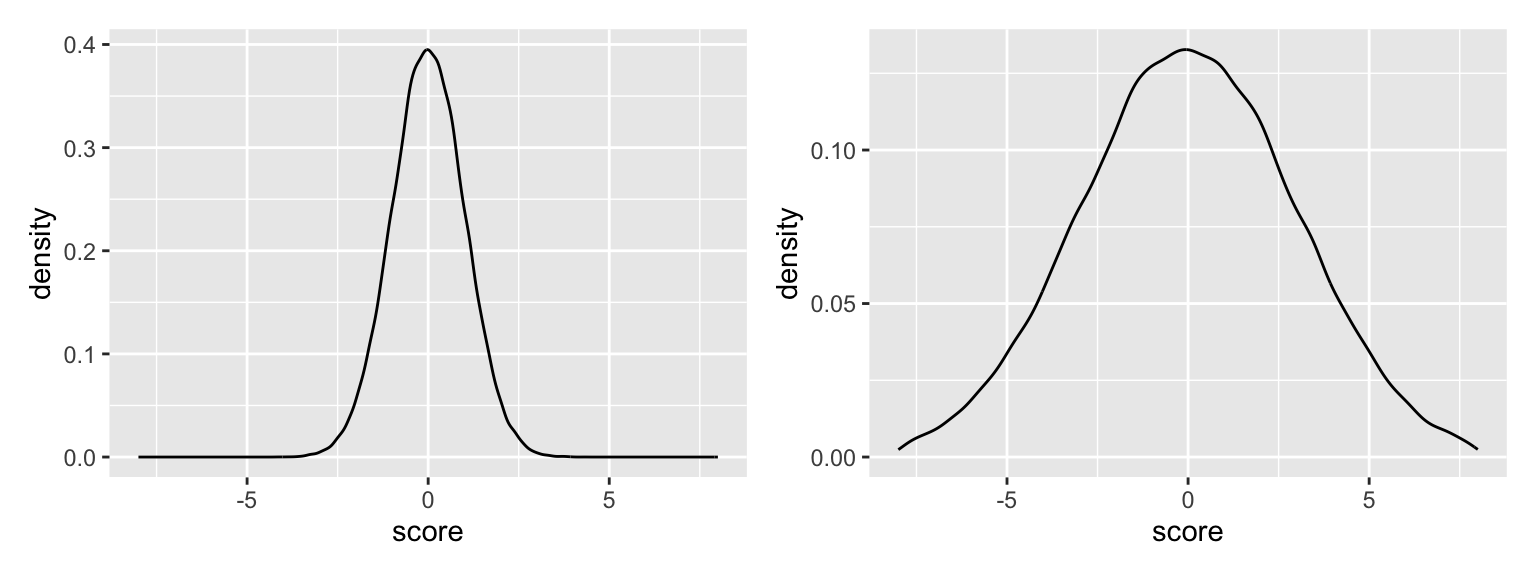
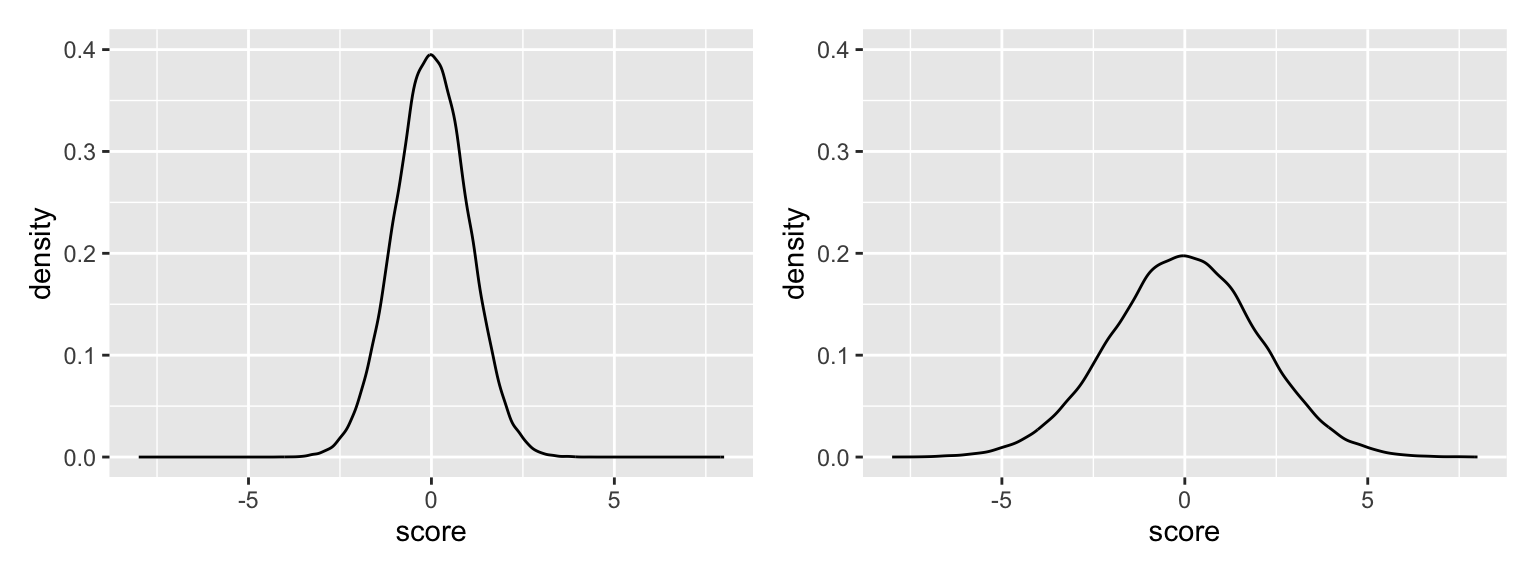
yes5

diff --git a/dataps/dataviz.html b/dataps/dataviz.html
@@ -395,10 +395,10 @@ div.csl-indent {
 <span id="cb6-4"><a href="#cb6-4" aria-hidden="true" tabindex="-1"></a>  <span class="fu">ggplot</span>(<span class="fu">aes</span>(<span class="at">x=</span>score)) <span class="sc">+</span> </span>
 <span id="cb6-5"><a href="#cb6-5" aria-hidden="true" tabindex="-1"></a>  <span class="fu">geom_density</span>(<span class="at">linewidth=</span><span class="dv">1</span>) <span class="sc">+</span> </span>
 <span id="cb6-6"><a href="#cb6-6" aria-hidden="true" tabindex="-1"></a>  <span class="fu">labs</span>(<span class="at">title=</span><span class="st">"linewidth=1"</span>, </span>
-<span id="cb6-7"><a href="#cb6-7" aria-hidden="true" tabindex="-1"></a>       <span class="at">x=</span><span class="st">"Score (Random Variable)"</span>, <span class="at">y=</span><span class="st">"Density"</span>) <span class="sc">+</span></span>
+<span id="cb6-7"><a href="#cb6-7" aria-hidden="true" tabindex="-1"></a>       <span class="at">x=</span><span class="st">"Score (Random Variable)</span><span class="sc">\n</span><span class="st"> "</span>, <span class="at">y=</span><span class="st">"Density"</span>) <span class="sc">+</span></span>
 <span id="cb6-8"><a href="#cb6-8" aria-hidden="true" tabindex="-1"></a>  <span class="fu">scale_x_continuous</span>(<span class="at">limits =</span> <span class="fu">c</span>(<span class="sc">-</span><span class="dv">4</span>, <span class="dv">4</span>), <span class="at">breaks =</span> <span class="fu">seq</span>(<span class="sc">-</span><span class="dv">4</span>, <span class="dv">4</span>, <span class="dv">1</span>)) <span class="sc">+</span></span>
 <span id="cb6-9"><a href="#cb6-9" aria-hidden="true" tabindex="-1"></a>  <span class="fu">scale_y_continuous</span>(<span class="at">limits =</span> <span class="fu">c</span>(<span class="dv">0</span>, .<span class="dv">4</span>), <span class="at">breaks =</span> <span class="fu">seq</span>(<span class="dv">0</span>, .<span class="dv">4</span>, .<span class="dv">1</span>)) <span class="sc">+</span></span>
-<span id="cb6-10"><a href="#cb6-10" aria-hidden="true" tabindex="-1"></a>  <span class="fu">theme</span>(<span class="at">plot.title =</span> <span class="fu">element_text</span>(<span class="at">hjust =</span> <span class="fl">0.5</span>, <span class="at">size=</span><span class="dv">12</span>), </span>
+<span id="cb6-10"><a href="#cb6-10" aria-hidden="true" tabindex="-1"></a>  <span class="fu">theme</span>(<span class="at">plot.title =</span> <span class="fu">element_text</span>(<span class="at">hjust =</span> <span class="fl">0.5</span>, <span class="at">size=</span><span class="dv">12</span>, <span class="at">face =</span> <span class="st">"bold"</span>), </span>
 <span id="cb6-11"><a href="#cb6-11" aria-hidden="true" tabindex="-1"></a>        <span class="at">axis.title =</span> <span class="fu">element_text</span>(<span class="at">size =</span> <span class="dv">12</span>), </span>
 <span id="cb6-12"><a href="#cb6-12" aria-hidden="true" tabindex="-1"></a>        <span class="at">axis.text  =</span> <span class="fu">element_text</span>(<span class="at">size =</span> <span class="dv">10</span>))</span>
 <span id="cb6-13"><a href="#cb6-13" aria-hidden="true" tabindex="-1"></a></span>
@@ -409,9 +409,9 @@ div.csl-indent {
 <span id="cb6-18"><a href="#cb6-18" aria-hidden="true" tabindex="-1"></a>       <span class="at">x=</span><span class="st">"Score (Random Variable)"</span>, <span class="at">y=</span><span class="st">"Density"</span>) <span class="sc">+</span></span>
 <span id="cb6-19"><a href="#cb6-19" aria-hidden="true" tabindex="-1"></a>  <span class="fu">scale_x_continuous</span>(<span class="at">limits =</span> <span class="fu">c</span>(<span class="sc">-</span><span class="dv">4</span>, <span class="dv">4</span>), <span class="at">breaks =</span> <span class="fu">seq</span>(<span class="sc">-</span><span class="dv">4</span>, <span class="dv">4</span>, <span class="dv">1</span>)) <span class="sc">+</span></span>
 <span id="cb6-20"><a href="#cb6-20" aria-hidden="true" tabindex="-1"></a>  <span class="fu">scale_y_continuous</span>(<span class="at">limits =</span> <span class="fu">c</span>(<span class="dv">0</span>, .<span class="dv">4</span>), <span class="at">breaks =</span> <span class="fu">seq</span>(<span class="dv">0</span>, .<span class="dv">4</span>, .<span class="dv">1</span>)) <span class="sc">+</span></span>
-<span id="cb6-21"><a href="#cb6-21" aria-hidden="true" tabindex="-1"></a>  <span class="fu">theme</span>(<span class="at">plot.title =</span> <span class="fu">element_text</span>(<span class="at">hjust =</span> <span class="fl">0.5</span>, <span class="at">size=</span><span class="dv">12</span>), <span class="co"># Graph title</span></span>
-<span id="cb6-22"><a href="#cb6-22" aria-hidden="true" tabindex="-1"></a>        <span class="at">axis.title =</span> <span class="fu">element_text</span>(<span class="at">size =</span> <span class="dv">12</span>),  <span class="co"># Axis titles</span></span>
-<span id="cb6-23"><a href="#cb6-23" aria-hidden="true" tabindex="-1"></a>        <span class="at">axis.text  =</span> <span class="fu">element_text</span>(<span class="at">size =</span> <span class="dv">10</span>))  <span class="co"># Axis tick labels</span></span>
+<span id="cb6-21"><a href="#cb6-21" aria-hidden="true" tabindex="-1"></a>  <span class="fu">theme</span>(<span class="at">plot.title =</span> <span class="fu">element_text</span>(<span class="at">hjust =</span> <span class="fl">0.5</span>, <span class="at">size=</span><span class="dv">12</span>, <span class="at">face =</span> <span class="st">"bold"</span>), </span>
+<span id="cb6-22"><a href="#cb6-22" aria-hidden="true" tabindex="-1"></a>        <span class="at">axis.title =</span> <span class="fu">element_text</span>(<span class="at">size =</span> <span class="dv">12</span>),  </span>
+<span id="cb6-23"><a href="#cb6-23" aria-hidden="true" tabindex="-1"></a>        <span class="at">axis.text  =</span> <span class="fu">element_text</span>(<span class="at">size =</span> <span class="dv">10</span>))  </span>
 <span id="cb6-24"><a href="#cb6-24" aria-hidden="true" tabindex="-1"></a></span>
 <span id="cb6-25"><a href="#cb6-25" aria-hidden="true" tabindex="-1"></a>c <span class="ot">&lt;-</span> mynorm <span class="sc">|&gt;</span> </span>
 <span id="cb6-26"><a href="#cb6-26" aria-hidden="true" tabindex="-1"></a>  <span class="fu">ggplot</span>(<span class="fu">aes</span>(<span class="at">x=</span>score)) <span class="sc">+</span> </span>
@@ -420,9 +420,9 @@ div.csl-indent {
 <span id="cb6-29"><a href="#cb6-29" aria-hidden="true" tabindex="-1"></a>       <span class="at">x=</span><span class="st">"Score (Random Variable)"</span>, <span class="at">y=</span><span class="st">"Density"</span>) <span class="sc">+</span></span>
 <span id="cb6-30"><a href="#cb6-30" aria-hidden="true" tabindex="-1"></a>  <span class="fu">scale_x_continuous</span>(<span class="at">limits =</span> <span class="fu">c</span>(<span class="sc">-</span><span class="dv">4</span>, <span class="dv">4</span>), <span class="at">breaks =</span> <span class="fu">seq</span>(<span class="sc">-</span><span class="dv">4</span>, <span class="dv">4</span>, <span class="dv">1</span>)) <span class="sc">+</span></span>
 <span id="cb6-31"><a href="#cb6-31" aria-hidden="true" tabindex="-1"></a>  <span class="fu">scale_y_continuous</span>(<span class="at">limits =</span> <span class="fu">c</span>(<span class="dv">0</span>, .<span class="dv">4</span>), <span class="at">breaks =</span> <span class="fu">seq</span>(<span class="dv">0</span>, .<span class="dv">4</span>, .<span class="dv">1</span>)) <span class="sc">+</span></span>
-<span id="cb6-32"><a href="#cb6-32" aria-hidden="true" tabindex="-1"></a>  <span class="fu">theme</span>(<span class="at">plot.title =</span> <span class="fu">element_text</span>(<span class="at">hjust =</span> <span class="fl">0.5</span>, <span class="at">size=</span><span class="dv">12</span>), <span class="co"># Graph title</span></span>
-<span id="cb6-33"><a href="#cb6-33" aria-hidden="true" tabindex="-1"></a>        <span class="at">axis.title =</span> <span class="fu">element_text</span>(<span class="at">size =</span> <span class="dv">12</span>),  <span class="co"># Axis titles</span></span>
-<span id="cb6-34"><a href="#cb6-34" aria-hidden="true" tabindex="-1"></a>        <span class="at">axis.text  =</span> <span class="fu">element_text</span>(<span class="at">size =</span> <span class="dv">10</span>))  <span class="co"># Axis tick labels</span></span>
+<span id="cb6-32"><a href="#cb6-32" aria-hidden="true" tabindex="-1"></a>  <span class="fu">theme</span>(<span class="at">plot.title =</span> <span class="fu">element_text</span>(<span class="at">hjust =</span> <span class="fl">0.5</span>, <span class="at">size=</span><span class="dv">12</span>, <span class="at">face =</span> <span class="st">"bold"</span>),</span>
+<span id="cb6-33"><a href="#cb6-33" aria-hidden="true" tabindex="-1"></a>        <span class="at">axis.title =</span> <span class="fu">element_text</span>(<span class="at">size =</span> <span class="dv">12</span>), </span>
+<span id="cb6-34"><a href="#cb6-34" aria-hidden="true" tabindex="-1"></a>        <span class="at">axis.text  =</span> <span class="fu">element_text</span>(<span class="at">size =</span> <span class="dv">10</span>)) </span>
 <span id="cb6-35"><a href="#cb6-35" aria-hidden="true" tabindex="-1"></a></span>
 <span id="cb6-36"><a href="#cb6-36" aria-hidden="true" tabindex="-1"></a>d <span class="ot">&lt;-</span> mynorm <span class="sc">|&gt;</span> </span>
 <span id="cb6-37"><a href="#cb6-37" aria-hidden="true" tabindex="-1"></a>  <span class="fu">ggplot</span>(<span class="fu">aes</span>(<span class="at">x=</span>score)) <span class="sc">+</span> </span>
@@ -431,9 +431,9 @@ div.csl-indent {
 <span id="cb6-40"><a href="#cb6-40" aria-hidden="true" tabindex="-1"></a>       <span class="at">x=</span><span class="st">"Score (Random Variable)"</span>, <span class="at">y=</span><span class="st">"Density"</span>) <span class="sc">+</span></span>
 <span id="cb6-41"><a href="#cb6-41" aria-hidden="true" tabindex="-1"></a>  <span class="fu">scale_x_continuous</span>(<span class="at">limits =</span> <span class="fu">c</span>(<span class="sc">-</span><span class="dv">4</span>, <span class="dv">4</span>), <span class="at">breaks =</span> <span class="fu">seq</span>(<span class="sc">-</span><span class="dv">4</span>, <span class="dv">4</span>, <span class="dv">1</span>)) <span class="sc">+</span></span>
 <span id="cb6-42"><a href="#cb6-42" aria-hidden="true" tabindex="-1"></a>  <span class="fu">scale_y_continuous</span>(<span class="at">limits =</span> <span class="fu">c</span>(<span class="dv">0</span>, .<span class="dv">4</span>), <span class="at">breaks =</span> <span class="fu">seq</span>(<span class="dv">0</span>, .<span class="dv">4</span>, .<span class="dv">1</span>)) <span class="sc">+</span></span>
-<span id="cb6-43"><a href="#cb6-43" aria-hidden="true" tabindex="-1"></a>  <span class="fu">theme</span>(<span class="at">plot.title =</span> <span class="fu">element_text</span>(<span class="at">hjust =</span> <span class="fl">0.5</span>, <span class="at">size=</span><span class="dv">12</span>), <span class="co"># Graph title</span></span>
-<span id="cb6-44"><a href="#cb6-44" aria-hidden="true" tabindex="-1"></a>        <span class="at">axis.title =</span> <span class="fu">element_text</span>(<span class="at">size =</span> <span class="dv">12</span>),  <span class="co"># Axis titles</span></span>
-<span id="cb6-45"><a href="#cb6-45" aria-hidden="true" tabindex="-1"></a>        <span class="at">axis.text  =</span> <span class="fu">element_text</span>(<span class="at">size =</span> <span class="dv">10</span>))  <span class="co"># Axis tick labels</span></span>
+<span id="cb6-43"><a href="#cb6-43" aria-hidden="true" tabindex="-1"></a>  <span class="fu">theme</span>(<span class="at">plot.title =</span> <span class="fu">element_text</span>(<span class="at">hjust =</span> <span class="fl">0.5</span>, <span class="at">size=</span><span class="dv">12</span>, <span class="at">face =</span> <span class="st">"bold"</span>),</span>
+<span id="cb6-44"><a href="#cb6-44" aria-hidden="true" tabindex="-1"></a>        <span class="at">axis.title =</span> <span class="fu">element_text</span>(<span class="at">size =</span> <span class="dv">12</span>), </span>
+<span id="cb6-45"><a href="#cb6-45" aria-hidden="true" tabindex="-1"></a>        <span class="at">axis.text  =</span> <span class="fu">element_text</span>(<span class="at">size =</span> <span class="dv">10</span>)) </span>
 <span id="cb6-46"><a href="#cb6-46" aria-hidden="true" tabindex="-1"></a></span>
 <span id="cb6-47"><a href="#cb6-47" aria-hidden="true" tabindex="-1"></a></span>
 <span id="cb6-48"><a href="#cb6-48" aria-hidden="true" tabindex="-1"></a>a <span class="sc">+</span> b <span class="sc">+</span> c <span class="sc">+</span> d <span class="sc">+</span> <span class="fu">plot_layout</span>(<span class="at">ncol =</span> <span class="dv">2</span>)</span></code><button title="Copy to Clipboard" class="code-copy-button"><i class="bi"></i></button></pre></div>
@@ -507,17 +507,21 @@ div.csl-indent {
 <div class="cell">
 <div class="sourceCode cell-code" id="cb9"><pre class="sourceCode r code-with-copy"><code class="sourceCode r"><span id="cb9-1"><a href="#cb9-1" aria-hidden="true" tabindex="-1"></a><span class="fu">set.seed</span>(<span class="dv">123</span>)</span>
 <span id="cb9-2"><a href="#cb9-2" aria-hidden="true" tabindex="-1"></a>mynorm2 <span class="ot">&lt;-</span> <span class="fu">data.frame</span>(<span class="at">id=</span><span class="dv">1</span><span class="sc">:</span><span class="dv">100000</span>) <span class="sc">|&gt;</span> </span>
-<span id="cb9-3"><a href="#cb9-3" aria-hidden="true" tabindex="-1"></a>  <span class="fu">mutate</span>(<span class="at">score=</span><span class="fu">rnorm</span>(<span class="at">n =</span> <span class="dv">100000</span>, <span class="at">mean =</span> <span class="dv">0</span>, <span class="at">sd =</span> <span class="dv">3</span>))</span>
+<span id="cb9-3"><a href="#cb9-3" aria-hidden="true" tabindex="-1"></a>  <span class="fu">mutate</span>(<span class="at">score=</span><span class="fu">rnorm</span>(<span class="at">n =</span> <span class="dv">100000</span>, <span class="at">mean =</span> <span class="dv">0</span>, <span class="at">sd =</span> <span class="dv">2</span>))</span>
 <span id="cb9-4"><a href="#cb9-4" aria-hidden="true" tabindex="-1"></a></span>
 <span id="cb9-5"><a href="#cb9-5" aria-hidden="true" tabindex="-1"></a>a <span class="ot">&lt;-</span> mynorm <span class="sc">|&gt;</span> </span>
 <span id="cb9-6"><a href="#cb9-6" aria-hidden="true" tabindex="-1"></a>  <span class="fu">ggplot</span>(<span class="fu">aes</span>(<span class="at">x=</span>score)) <span class="sc">+</span> </span>
-<span id="cb9-7"><a href="#cb9-7" aria-hidden="true" tabindex="-1"></a>  <span class="fu">geom_density</span>() <span class="sc">+</span> <span class="fu">xlim</span>(<span class="sc">-</span><span class="dv">8</span>, <span class="dv">8</span>)</span>
-<span id="cb9-8"><a href="#cb9-8" aria-hidden="true" tabindex="-1"></a></span>
-<span id="cb9-9"><a href="#cb9-9" aria-hidden="true" tabindex="-1"></a>b<span class="ot">&lt;-</span> mynorm2 <span class="sc">|&gt;</span> </span>
-<span id="cb9-10"><a href="#cb9-10" aria-hidden="true" tabindex="-1"></a>  <span class="fu">ggplot</span>(<span class="fu">aes</span>(<span class="at">x=</span>score)) <span class="sc">+</span> </span>
-<span id="cb9-11"><a href="#cb9-11" aria-hidden="true" tabindex="-1"></a>  <span class="fu">geom_density</span>() <span class="sc">+</span> <span class="fu">xlim</span>(<span class="sc">-</span><span class="dv">8</span>, <span class="dv">8</span>)</span>
-<span id="cb9-12"><a href="#cb9-12" aria-hidden="true" tabindex="-1"></a></span>
-<span id="cb9-13"><a href="#cb9-13" aria-hidden="true" tabindex="-1"></a>a <span class="sc">+</span> b <span class="sc">+</span> <span class="fu">plot_layout</span>(<span class="at">ncol =</span> <span class="dv">2</span>)</span></code><button title="Copy to Clipboard" class="code-copy-button"><i class="bi"></i></button></pre></div>
+<span id="cb9-7"><a href="#cb9-7" aria-hidden="true" tabindex="-1"></a>  <span class="fu">geom_density</span>() <span class="sc">+</span> </span>
+<span id="cb9-8"><a href="#cb9-8" aria-hidden="true" tabindex="-1"></a>  <span class="fu">xlim</span>(<span class="sc">-</span><span class="dv">8</span>, <span class="dv">8</span>) <span class="sc">+</span></span>
+<span id="cb9-9"><a href="#cb9-9" aria-hidden="true" tabindex="-1"></a>  <span class="fu">ylim</span>(<span class="dv">0</span>, .<span class="dv">4</span>)</span>
+<span id="cb9-10"><a href="#cb9-10" aria-hidden="true" tabindex="-1"></a></span>
+<span id="cb9-11"><a href="#cb9-11" aria-hidden="true" tabindex="-1"></a>b<span class="ot">&lt;-</span> mynorm2 <span class="sc">|&gt;</span> </span>
+<span id="cb9-12"><a href="#cb9-12" aria-hidden="true" tabindex="-1"></a>  <span class="fu">ggplot</span>(<span class="fu">aes</span>(<span class="at">x=</span>score)) <span class="sc">+</span> </span>
+<span id="cb9-13"><a href="#cb9-13" aria-hidden="true" tabindex="-1"></a>  <span class="fu">geom_density</span>() <span class="sc">+</span> </span>
+<span id="cb9-14"><a href="#cb9-14" aria-hidden="true" tabindex="-1"></a>  <span class="fu">xlim</span>(<span class="sc">-</span><span class="dv">8</span>, <span class="dv">8</span>) <span class="sc">+</span></span>
+<span id="cb9-15"><a href="#cb9-15" aria-hidden="true" tabindex="-1"></a>  <span class="fu">ylim</span>(<span class="dv">0</span>, .<span class="dv">4</span>)</span>
+<span id="cb9-16"><a href="#cb9-16" aria-hidden="true" tabindex="-1"></a></span>
+<span id="cb9-17"><a href="#cb9-17" aria-hidden="true" tabindex="-1"></a>a <span class="sc">+</span> b <span class="sc">+</span> <span class="fu">plot_layout</span>(<span class="at">ncol =</span> <span class="dv">2</span>)</span></code><button title="Copy to Clipboard" class="code-copy-button"><i class="bi"></i></button></pre></div>
 <div class="cell-output-display">
 <div>
 <figure class="figure">
